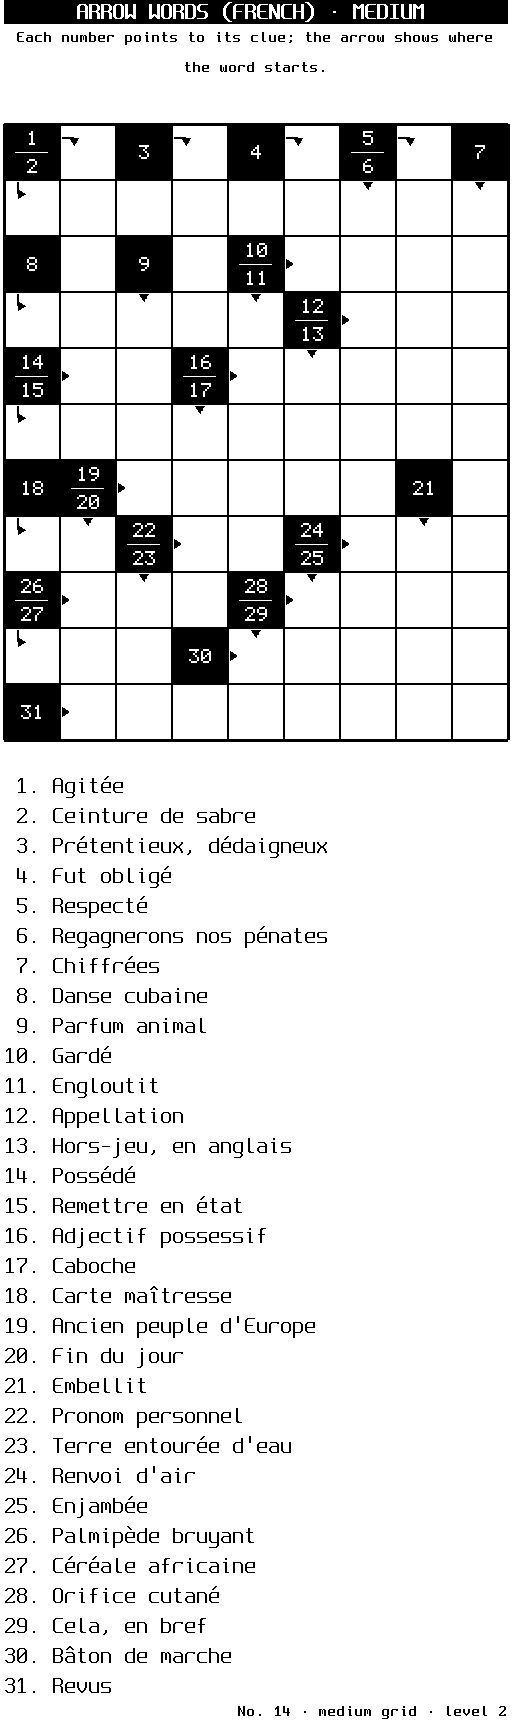
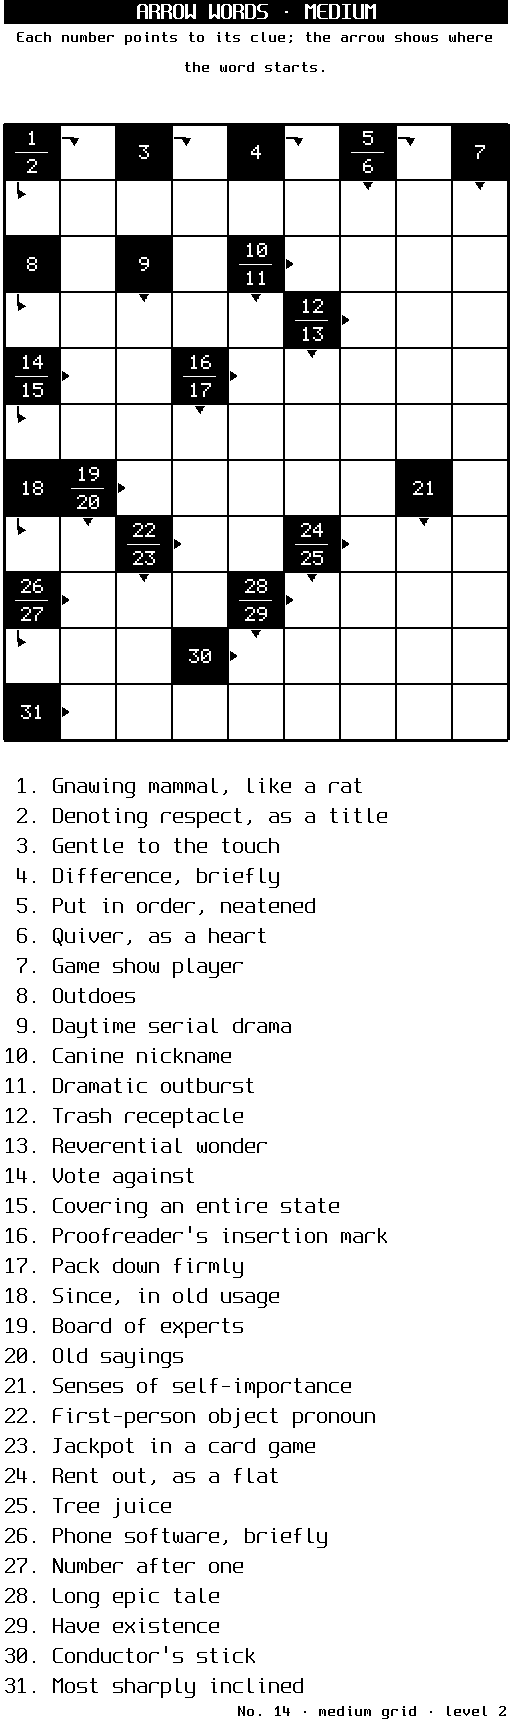
Mots fléchés en anglais (CrossWords 1.1.0)
Dictionnaire, définitions (definitions-en.txt), consignes à Claude et grilles en cache
propres à chaque langue ; format JSON de CrossWords en version 2. Les grilles françaises
déjà gardées restent valables.

diff --git a/web/app.js b/web/app.js
@@ -364,7 +364,7 @@ const BLOCKS = [
     summary: (b) => `${b.width} × ${b.height}`,
   },
   {
-    type: 'arrow_word', label: T('Mots fléchés', 'Arrow words'), emoji: '✍', group: G.fun, desc: T('Une grille de mots fléchés, définitions par Claude', 'A French arrow-word grid, clues by Claude'), ai: true,
+    type: 'arrow_word', label: T('Mots fléchés', 'Arrow words'), emoji: '✍', group: G.fun, desc: T('Une grille de mots fléchés, définitions par Claude', 'An arrow-word grid, clues written by Claude'), ai: true,
     defaults: { level: 2, size: 'moyen' },
     fields: [
       { key: 'level', label: T('Niveau', 'Level'), kind: 'segmented', options: [[1, T('Facile', 'Easy')], [2, T('Moyen', 'Medium')], [3, T('Difficile', 'Hard')], [4, 'Expert']],

diff --git a/src/blocks/arrow_word.rs b/src/blocks/arrow_word.rs
@@ -1,11 +1,14 @@
 //! Mots fléchés, générés par CrossWords (https://github.com/XNinety9/CrossWords).
 //!
-//! La bibliothèque remplit la grille ; on la relit dans son format JSON documenté (version 1,
+//! La bibliothèque remplit la grille ; on la relit dans son format JSON documenté (version 2,
 //! `docs/format-json.md`), qui reste le contrat entre les deux projets. Rendu « à numéros »,
 //! adapté au papier de 80 mm : la grille en image, cases définitions noires numérotées et
 //! flèches de départ, puis les définitions numérotées en texte.
 //!
-//! Définitions : le cache de CrossWords (`definitions.txt`), complété à l'impression par Claude
+//! Grilles en français, ou en anglais pour une installation en anglais (CrossWords 1.1) : chaque
+//! langue a son dictionnaire, ses définitions et ses grilles en cache.
+//!
+//! Définitions : le cache de CrossWords (`definitions.txt`, `definitions-en.txt` en anglais), complété à l'impression par Claude
 //! pour les mots inconnus (jamais en aperçu). Grille et définitions sont gardées par numéro :
 //! la solution se réimprime à l'identique, sans nouvel appel.
 
@@ -16,7 +19,10 @@ use std::path::PathBuf;
 use std::sync::{Arc, Mutex, OnceLock};
 
 use anyhow::{Context, Result, anyhow, ensure};
-use crosswords::{Definitions, Dictionary, FlechesOptions, JSON_FORMAT_VERSION, autodefs, generate_fleches, level_settings, wordlist};
+use crosswords::{
+    Definitions, Dictionary, FlechesOptions, JSON_FORMAT_VERSION, Language, autodefs, generate_fleches, level_settings,
+    wordlist,
+};
 use image::GrayImage;
 use rand::RngExt;
 use serde::{Deserialize, Serialize};
@@ -65,7 +71,7 @@ pub fn level_label(level: u8) -> &'static str {
     }
 }
 
-// ---- Format JSON de CrossWords, version 1 ----
+// ---- Format JSON de CrossWords, version 2 ----
 
 #[derive(Serialize, Deserialize, Clone, Debug)]
 struct Grille {
@@ -75,6 +81,9 @@ struct Grille {
     kind: String,
     largeur: usize,
     hauteur: usize,
+    /// « fr » ou « en » (version 2 du format) ; absente des grilles gardées avant, toutes françaises.
+    #[serde(default)]
+    langue: Option<String>,
     graine: Option<u64>,
     niveau: Option<u8>,
     grille: Vec<String>,
@@ -142,36 +151,46 @@ impl Grille {
 
 // ---- Dictionnaire et définitions de CrossWords ----
 
+/// Langue des grilles : celle de l'installation.
+fn language() -> Language {
+    if crate::i18n::en() { Language::En } else { Language::Fr }
+}
+
 /// Dictionnaire par seuil de fréquence, chargé une fois (la liste est téléchargée par curl au
 /// tout premier usage, dans le cache de CrossWords).
-fn dictionary(min_score: u32) -> Result<Arc<Dictionary>> {
-    static DICTS: OnceLock<Mutex<HashMap<u32, Arc<Dictionary>>>> = OnceLock::new();
+fn dictionary(lang: Language, min_score: u32) -> Result<Arc<Dictionary>> {
+    static DICTS: OnceLock<Mutex<HashMap<(&'static str, u32), Arc<Dictionary>>>> = OnceLock::new();
     let mut dicts = DICTS.get_or_init(Default::default).lock().unwrap_or_else(|e| e.into_inner());
-    if let Some(dict) = dicts.get(&min_score) {
+    if let Some(dict) = dicts.get(&(lang.code(), min_score)) {
         return Ok(Arc::clone(dict));
     }
-    let path = wordlist::french(|_| {}).context(crate::i18n::t("liste de mots de CrossWords indisponible (premier téléchargement)", "CrossWords word list unavailable (first download)"))?;
+    let path = wordlist::for_language(lang, |_| {}).context(crate::i18n::t("liste de mots de CrossWords indisponible (premier téléchargement)", "CrossWords word list unavailable (first download)"))?;
     let file = File::open(&path).with_context(|| format!("{} illisible", path.display()))?;
     let dict = Arc::new(Dictionary::from_reader(BufReader::new(file), min_score)?);
-    dicts.insert(min_score, Arc::clone(&dict));
+    dicts.insert((lang.code(), min_score), Arc::clone(&dict));
     Ok(dict)
 }
 
-fn definitions_path() -> Option<PathBuf> {
-    wordlist::cache_dir().map(|dir| dir.join("definitions.txt"))
+/// Le cache de définitions de CrossWords, un fichier par langue (comme sa commande).
+fn definitions_path(lang: Language) -> Option<PathBuf> {
+    let name = match lang {
+        Language::En => "definitions-en.txt",
+        _ => "definitions.txt",
+    };
+    wordlist::cache_dir().map(|dir| dir.join(name))
 }
 
 /// Toutes les définitions connues (tous niveaux) : le cache de CrossWords.
-fn known_definitions() -> Definitions {
-    definitions_path()
+fn known_definitions(lang: Language) -> Definitions {
+    definitions_path(lang)
         .and_then(|p| File::open(p).ok())
         .and_then(|f| Definitions::from_reader(BufReader::new(f)).ok())
         .unwrap_or_default()
 }
 
 /// Ajoute des définitions rédigées au cache de CrossWords, au même format que sa commande.
-fn remember(defs: &[(String, String)], level: u8, model: &str) -> Result<()> {
-    let Some(path) = definitions_path() else { return Ok(()) };
+fn remember(lang: Language, defs: &[(String, String)], level: u8, model: &str) -> Result<()> {
+    let Some(path) = definitions_path(lang) else { return Ok(()) };
     if let Some(dir) = path.parent() {
         std::fs::create_dir_all(dir)?;
     }
@@ -183,25 +202,25 @@ fn remember(defs: &[(String, String)], level: u8, model: &str) -> Result<()> {
     Ok(())
 }
 
-fn generate(width: usize, height: usize, level: u8, seed: u64) -> Result<Grille> {
-    let dict = dictionary(level_settings(level).min_score)?;
+fn generate(lang: Language, width: usize, height: usize, level: u8, seed: u64) -> Result<Grille> {
+    let dict = dictionary(lang, level_settings(level).min_score)?;
     let mut options = FlechesOptions::new(width, height).with_level(level);
     options.seed = seed;
     let (fleches, _) = generate_fleches(&dict, &options).map_err(|e| anyhow!("{}", tr!("grille impossible : {e}", "could not build the grid: {e}")))?;
-    let defs = known_definitions().at_level(level);
-    parse(&fleches.to_json(Some(&defs), Some(seed), Some(level)))
+    let defs = known_definitions(lang).at_level(level);
+    parse(&fleches.to_json_in(Some(&defs), Some(seed), Some(level), lang))
 }
 
 /// Fait rédiger par Claude les définitions qui manquent. Renvoie le nombre de mots restés
 /// sans définition.
-fn complete(grille: &mut Grille, level: u8) -> Result<usize> {
+fn complete(lang: Language, grille: &mut Grille, level: u8) -> Result<usize> {
     let missing = grille.missing();
     if missing.is_empty() {
         return Ok(0);
     }
-    let report = autodefs::generate(&missing, &known_definitions(), level, |_| {})
+    let report = autodefs::generate_for(lang, &missing, &known_definitions(lang), level, |_| {})
         .map_err(|e| anyhow!("{}", tr!("définitions par Claude impossibles : {e}", "Claude could not write the clues: {e}")))?;
-    remember(&report.definitions, level, &report.model)?;
+    remember(lang, &report.definitions, level, &report.model)?;
     let written: HashMap<&str, &str> = report.definitions.iter().map(|(w, d)| (w.as_str(), d.as_str())).collect();
     for def in grille.definitions.iter_mut().filter(|d| d.texte.is_none()) {
         if let Some(text) = written.get(grille.mots[def.mot].mot.as_str()) {
@@ -319,20 +338,25 @@ pub fn build(ctx: &Ctx, options: &Options) -> Result<Doc> {
     let level = options.level.clamp(1, 4);
     let seed = options.seed.unwrap_or_else(|| rand::rng().random_range(1..100_000));
     let (width, height) = options.size.dims();
-    let key = format!("mots-fleches-v2-{width}x{height}-n{level}-{seed}");
+    let lang = language();
+    // Clé française inchangée : les grilles déjà gardées restent valables.
+    let key = match lang {
+        Language::En => format!("arrow-words-v2-{width}x{height}-n{level}-{seed}-en"),
+        _ => format!("mots-fleches-v2-{width}x{height}-n{level}-{seed}"),
+    };
     let cache = ctx.cache.as_ref();
 
     let cached: Option<Saved> = cache.filter(|_| !ctx.refresh).and_then(|c| c.get(&key));
     let from_cache = cached.is_some();
     let Saved { mut grille, mut claude_tried } = match cached {
         Some(saved) => saved,
-        None => Saved { grille: generate(width, height, level, seed)?, claude_tried: false },
+        None => Saved { grille: generate(lang, width, height, level, seed)?, claude_tried: false },
     };
     // Définitions manquantes : Claude, une seule fois, à l'impression (l'aperçu ne coûte rien).
     let mut note = None;
     let mut changed = !from_cache;
     if !grille.missing().is_empty() && !claude_tried && !ctx.preview && !options.solution {
-        match complete(&mut grille, level) {
+        match complete(lang, &mut grille, level) {
             Ok(_) => claude_tried = true,
             Err(e) => note = Some(tr!("Définitions indisponibles ({e}) : la longueur est indiquée.", "Clues unavailable ({e}): the word length is shown.")),
         }
@@ -353,7 +377,7 @@ pub fn build(ctx: &Ctx, options: &Options) -> Result<Doc> {
     if options.solution {
         doc.header(crate::i18n::t("Solution des mots fléchés", "Arrow words solution"));
     } else {
-        doc.header(&tr!("Mots fléchés · {}", "Arrow words (French) · {}", level_label(level)));
+        doc.header(&tr!("Mots fléchés · {}", "Arrow words · {}", level_label(level)));
         doc.text(crate::i18n::t("Chaque numéro renvoie à sa définition ; la flèche montre où part le mot.", "Each number points to its clue; the arrow shows where the word starts."), Style::default().small().center());
     }
     doc.feed(1);
@@ -393,7 +417,7 @@ mod tests {
 
     /// L'exemple de la documentation de CrossWords (`docs/format-json.md`).
     const SAMPLE: &str = r####"{
-      "format": "crosswords", "version": 1, "type": "fleches", "largeur": 6, "hauteur": 6, "graine": 2, "niveau": 1,
+      "format": "crosswords", "version": 2, "type": "fleches", "langue": "fr", "largeur": 6, "hauteur": 6, "graine": 2, "niveau": 1,
       "grille": ["#C#G#D", "PAGE#E", "###NON", "PAPIER", "#CRAIE", "REELLE"],
       "mots": [
         {"id": 0, "mot": "PAGE", "sens": "horizontal", "ligne": 1, "colonne": 0, "longueur": 4},
@@ -433,8 +457,8 @@ mod tests {
 
     #[test]
     fn unknown_format_versions_are_refused() {
-        let other = SAMPLE.replace("\"version\": 1", "\"version\": 2");
-        assert!(parse(&other).unwrap_err().to_string().contains("version 2"));
+        let other = SAMPLE.replace("\"version\": 2", "\"version\": 3");
+        assert!(parse(&other).unwrap_err().to_string().contains("version 3"));
         let croises = SAMPLE.replace("\"fleches\"", "\"croises\"");
         assert!(parse(&croises).is_err());
     }

diff --git a/README.fr.md b/README.fr.md
@@ -221,7 +221,8 @@ Le bloc `arrow_word` s'appuie sur la bibliothèque [CrossWords](https://github.c
 (Apache 2.0, © 2026 Pierre, [XNinety9](https://github.com/XNinety9) ; voir [`NOTICE`](NOTICE)).
 Au premier usage, elle télécharge sa liste de mots avec `curl` (une trentaine de secondes, une
 seule fois) dans le cache de printr.
-Les définitions viennent de son cache (`crosswords/definitions.txt`), complété à l'impression
+Les définitions viennent de son cache (`crosswords/definitions.txt`, ou `definitions-en.txt` en
+anglais), complété à l'impression
 par Claude pour les mots inconnus : moins d'un centime par grille neuve aux niveaux 1 et 2
 (Claude Haiku), une dizaine aux niveaux 3 et 4 (Claude Opus). L'aperçu n'appelle jamais Claude,
 et un mot que Claude n'a pas su définir n'est pas redemandé : sa longueur est imprimée.
@@ -241,10 +242,11 @@ toute l'installation en anglais : l'interface web, la ligne de commande, les mes
 tickets. Les blocs à contenu (énigmes, citations, mots mêlés, défis sportifs, bons à offrir…) ont
 leur propre liste anglaise, et Claude écrit l'horoscope et le mot du jour en anglais.
 
-L'**horoscope Barnum**, hors ligne, s'écrit aussi en anglais à partir de Barnum 0.3 (un Barnum
-plus ancien l'imprime en français). Deux blocs restent en français, faute de source anglaise : les
-**mots fléchés** (dictionnaire et définitions de CrossWords) et la **fête du jour**. Les **jours
-fériés** sont ceux de France, nommés en anglais.
+Les **mots fléchés** viennent du dictionnaire anglais de CrossWords, avec des définitions anglaises
+(son cache `definitions-en.txt`, complété par Claude). L'**horoscope Barnum**, hors ligne, s'écrit
+aussi en anglais à partir de Barnum 0.3 (un Barnum plus ancien l'imprime en français). Seule la
+**fête du jour** reste en français, faute de source anglaise ; les **jours fériés** sont ceux de
+France, nommés en anglais.
 
 ## Interface web
 

diff --git a/README.md b/README.md
@@ -224,7 +224,8 @@ The `arrow_word` block relies on the [CrossWords](https://github.com/XNinety9/Cr
 (Apache 2.0, © 2026 Pierre, [XNinety9](https://github.com/XNinety9); see [`NOTICE`](NOTICE)).
 On first use, it downloads its word list with `curl` (about thirty seconds, only once) into
 printr's cache.
-Definitions come from its cache (`crosswords/definitions.txt`), completed at print time by Claude
+Definitions come from its cache (`crosswords/definitions.txt`, or `definitions-en.txt` in
+English), completed at print time by Claude
 for the words it does not know: less than a cent per new grid at levels 1 and 2 (Claude Haiku),
 about ten cents at levels 3 and 4 (Claude Opus). Previews never call Claude, and a word that
 Claude could not define is not asked for again: its length is printed instead.
@@ -244,10 +245,11 @@ switches the whole installation to English: the web interface, the command line,
 tickets. Blocks with content (riddles, quotes, word searches, workouts, gift coupons…) have their
 own English list, and Claude writes the horoscope and the word of the day in English.
 
-The offline **Barnum horoscope** is written in English too, with Barnum 0.3 or later (an older
-Barnum prints it in French). Two blocks stay in French, for lack of an English source:
-**arrow words** (CrossWords' dictionary and definitions) and the **name day**. **Public holidays**
-are the French ones, named in English.
+**Arrow words** come from CrossWords' English dictionary, with English clues (its
+`definitions-en.txt` cache, completed by Claude). The offline **Barnum horoscope** is written in
+English too, with Barnum 0.3 or later (an older Barnum prints it in French). Only the **name day**
+stays in French, for lack of an English source; **public holidays** are the French ones, named in
+English.
 
 ## Web interface
 
